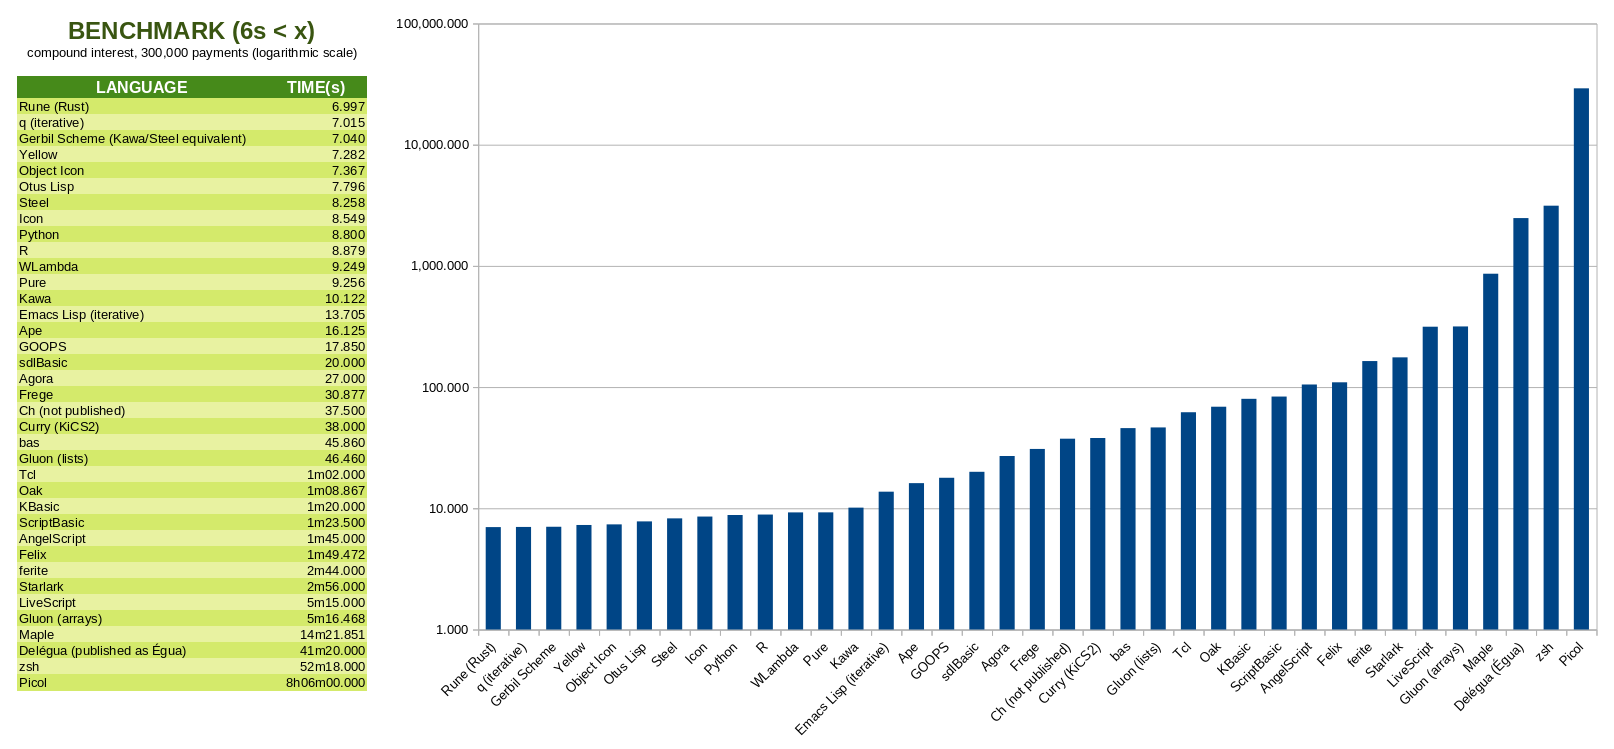
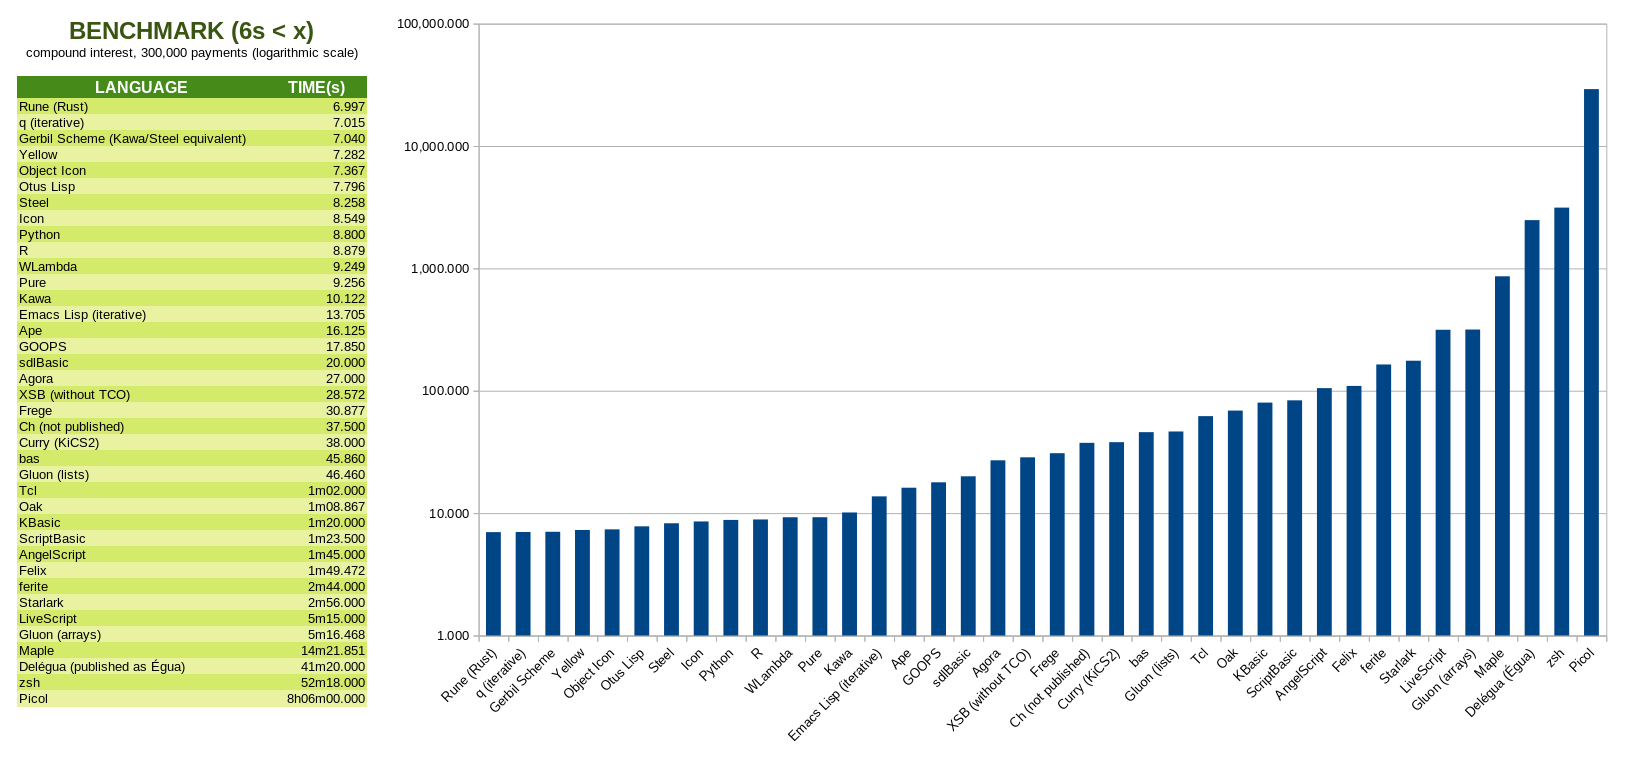
Add files via upload
%        0.3: 02/11/2026: corrigido acrescimoParaJuros, listas escaladas, casos especiais retirados, validações de parâmetros e cálculos
%                         comparada com a versão que permite Tail Call Optimization (TCO), esta força extender a pilha, mas o desempenho é melhor

%        0.3: 02/11/2026: corrigido acrescimoParaJuros, listas escaladas, casos especiais retirados, validações de parâmetros e cálculos
%                         funções recursivas alteradas para permitir Tail Call Optimization (TCO); não força extender a pilha, mas o desempenho piorou

Changed region(s): [[0.0, 0.0307, 0.9913, 0.9826], [0.2478, 0.0, 0.3098, 0.0614], [0.9603, 0.0307, 0.9913, 0.0614]]

diff --git a/SOLUCOES.md b/SOLUCOES.md
@@ -1799,7 +1799,8 @@ JavaScript: [juroswww.js](juroswww.js)
 
 ### XSB (19/02/2025) ♻
 
-[juros.P](juros.P)
+**sem TCO / without TCO:** [juros.P](juros.P)<br>
+**com TCO / with TCO:** [jurosTCO.P](jurosTCO.P) + ➰
 
 ### Xtend (03/06/2024)
 
